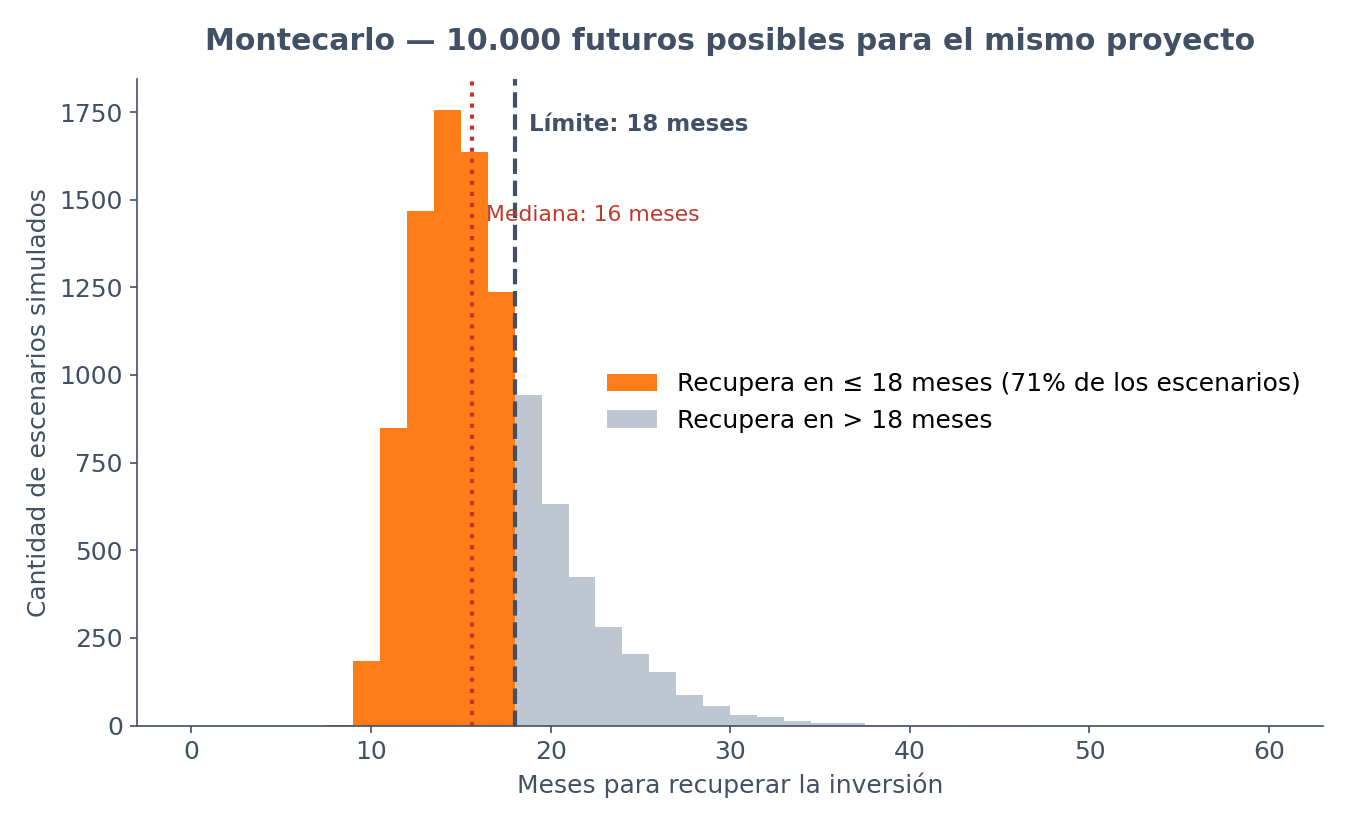
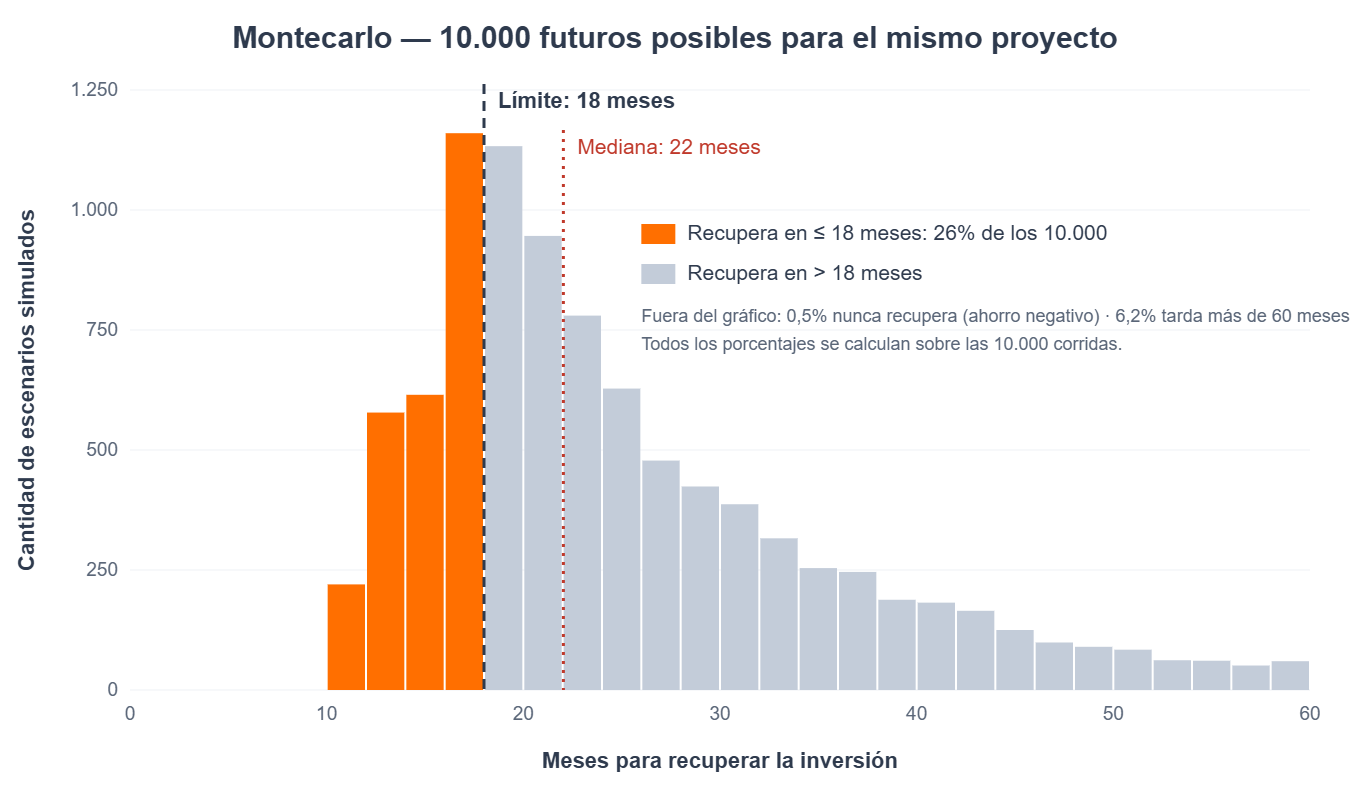
Montecarlo honesto, techo del IDA 165 y pestaña Benchmark
- runMC(): las probabilidades se calculan sobre las 10.000 corridas, no
  sobre el subconjunto con payback <=60 meses (inflaba el % de exito y
  daba NaN sin escenarios viables). Ahora reporta tres metricas: <=18
  meses, ahorro negativo y recupero >60 meses, con guard clause.
- Slider de riesgo del Montecarlo con paso 0,1: el paso entero anterior
  redondeaba el rango por defecto 1,3-1,7 a 1-2 y desincronizaba el
  resultado en vivo de lo documentado.
- Histograma: la barra que arranca en 18 meses ya no se pinta naranja.
- Techo teorico del IDA corregido de 177 a 165 (los agravantes actuales
  suman lambda max 1,65).
- Textos y g3_montecarlo.png actualizados: 26% / mediana 22 con el
  desglose de escenarios malos declarado.
- Nueva pestaña Benchmark: que herramientas existen, que pregunta no
  contesta cada una, y que le falta todavia a este modelo. Seccion 8
  espejo en el README.

diff --git a/index.html b/index.html
@@ -321,6 +321,7 @@ window.addEventListener('DOMContentLoaded',function(){
   <symbol id="i-mod-con" viewBox="0 0 24 24"><path d="M12 2.8 20 6v6.2c0 4.6-3.2 7.8-8 9.2-4.8-1.4-8-4.6-8-9.2V6z"/><polyline points="8.6 12 11 14.4 15.6 9.8"/></symbol>
   <symbol id="i-reset" viewBox="0 0 24 24"><path d="M3.5 12a8.5 8.5 0 1 0 2.6-6.1"/><polyline points="3 4 3 9.5 8.5 9.5"/></symbol>
   <symbol id="i-doc" viewBox="0 0 24 24"><path d="M14 3H7a2 2 0 0 0-2 2v14a2 2 0 0 0 2 2h10a2 2 0 0 0 2-2V8z"/><polyline points="14 3 14 8 19 8"/><line x1="8.5" y1="13" x2="15.5" y2="13"/><line x1="8.5" y1="16.5" x2="13" y2="16.5"/></symbol>
+  <symbol id="i-radar" viewBox="0 0 24 24"><circle cx="12" cy="12" r="8.5"/><circle cx="12" cy="12" r="4.5"/><circle cx="12" cy="12" r="1" fill="currentColor" stroke="none"/><path d="M12 3.5v2.6M12 17.9v2.6M3.5 12h2.6M17.9 12h2.6"/></symbol>
   <symbol id="i-bulb" viewBox="0 0 24 24"><path d="M9.5 18h5"/><path d="M10.5 21h3"/><path d="M12 3a6 6 0 00-3.6 10.8c.5.4.9 1 .9 1.7v.5h5.4v-.5c0-.7.4-1.3.9-1.7A6 6 0 0012 3z"/></symbol>
 </svg>
 
@@ -331,6 +332,7 @@ window.addEventListener('DOMContentLoaded',function(){
 
 <nav class="tabs">
   <button class="active" data-tab="calc"><svg><use href="#i-calc"/></svg> Calculadora</button>
+  <button data-tab="benchmark"><svg><use href="#i-radar"/></svg> Benchmark</button>
   <button data-tab="explica"><svg><use href="#i-book"/></svg> Cómo funciona</button>
   <button data-tab="formula"><svg><use href="#i-flask"/></svg> Fórmulas</button>
   <button data-tab="jugar"><svg><use href="#i-sliders"/></svg> Explorar gráficos</button>
@@ -535,6 +537,46 @@ window.addEventListener('DOMContentLoaded',function(){
 </section>
 </div>
 
+<!-- ========== BENCHMARK ========== -->
+<div class="panel" id="benchmark">
+<section>
+  <h2><svg><use href="#i-radar"/></svg> Qué existe afuera — y qué hueco llena esto</h2>
+  <p>Antes de confiar en una calculadora nueva, la pregunta correcta es: <b>¿por qué no existía?</b> Alrededor de la IA hay muchísimo software de retorno, de riesgo y de cumplimiento. Lo honesto es mostrar qué hace cada categoría, qué pregunta no contesta, y dónde queda el hueco que este modelo intenta llenar.</p>
+
+  <h3>Las cuatro categorías que ya existen</h3>
+  <div class="tabla-scroll">
+  <table>
+    <tr><th>Qué hay hoy</th><th>Qué resuelve bien</th><th>La pregunta que no contesta</th></tr>
+    <tr><td><b>Calculadoras de ROI de IA</b></td><td>Cuánto ahorrás automatizando: horas por costo, payback simple.</td><td>Asumen riesgo cero y continuidad gratis. Te dicen a cuánta gente podés <i>bajar</i>; nunca cuánta tenés que <i>conservar</i>.</td></tr>
+    <tr><td><b>Índices académicos de dependencia de IA</b></td><td>Miden cuánto depende de la IA una economía o un sector, a nivel macro.</td><td>No bajan al gerente: no te dicen cuántas personas necesita tu área el lunes si el proveedor no responde.</td></tr>
+    <tr><td><b>Normas de gestión (ISO/IEC 42001, ISO 22301)</b></td><td>Te exigen plan de contingencia y evaluación de riesgos: definen el <i>qué</i>.</td><td>Son marcos, no calculadoras: piden el plan pero no dan el número — ni la dotación mínima, ni el costo del riesgo, ni el tope de inversión.</td></tr>
+    <tr><td><b>Plataformas de riesgo y seguridad de IA</b></td><td>Protegen el software: prompts maliciosos, fuga de datos, sesgos, cumplimiento.</td><td>Cuidan a la IA de que la ataquen. No cuidan a tu operación de quedarse <i>sin</i> IA.</td></tr>
+  </table>
+  </div>
+  <p class="nota">Cada pieza existe por separado. Lo que no existía es la <b>unión</b>: personas + arquitectura técnica + riesgo de negocio en una sola cuenta que se pueda auditar.</p>
+
+  <h3>Qué pasa hoy porque esta cuenta no se hace</h3>
+  <p><b>Se despide con el Excel del ROI.</b> La dotación queda por debajo del piso de continuidad y nadie lo sabe, porque el piso nunca se calculó. Se descubre el día de la primera caída — como en el apagón global de CrowdStrike, cuando el "plan manual" de muchas empresas resultó no tener gente suficiente que supiera ejecutarlo.</p>
+  <p><b>El plan de contingencia se escribe sin número.</b> La norma exige "volver a operación manual", y el documento lo promete — con una dotación que ya no alcanza para operar manualmente. El papel cumple; la operación no.</p>
+  <p><b>El directorio no tiene métrica de exposición.</b> Se discute cuánto ahorra la IA — nunca cuán rehén queda la empresa del proveedor. Sin un número comparable entre áreas y entre empresas, la dependencia no entra en la agenda hasta que se corta.</p>
+  <p><b>La inversión se aprueba con el escenario promedio.</b> "Recuperás en 20 meses" suena a plan. Corrido 10.000 veces con rangos realistas, solo el 26% de los futuros recupera en menos de 18 — eso es una apuesta, y conviene saberlo antes de firmar.</p>
+
+  <h3>Qué hace distinto este modelo</h3>
+  <div class="tabla-scroll">
+  <table>
+    <tr><th>Diferencia</th><th>Por qué importa</th></tr>
+    <tr><td><b>Cuantifica la dotación mínima de continuidad (P')</b></td><td>Ningún software de RRHH ni de ROI te calcula el piso humano. Este modelo te dice "automatizá, pero tu piso de supervivencia son 4 personas; abajo de eso, el día que falle el proveedor no operás".</td></tr>
+    <tr><td><b>Traduce la fragilidad de arquitectura a plata (λ)</b></td><td>Una sola nube sin plan B deja de ser una observación técnica y pasa a ser un costo económico directo que castiga el ahorro y sube el IDA.</td></tr>
+    <tr><td><b>Es preventivo y probabilístico</b></td><td>Avisa <i>antes</i> de la caída, no después. Y el Montecarlo reporta los porcentajes sobre las 10.000 corridas completas — incluyendo los escenarios donde el proyecto no cierra, que serían fáciles de esconder.</td></tr>
+  </table>
+  </div>
+
+  <h3>Lo que este modelo todavía no tiene</h3>
+  <p>El benchmark honesto incluye los huecos propios. Los coeficientes de λ (+30% una sola nube, +20% sin plan de contingencia, +15% datos sensibles afuera) salen de criterio experto e incidentes públicos, no de un dataset calibrado por sector: son un punto de partida razonable, no una verdad revelada. Y el modelo todavía no publica casos reales con métricas de antes y después. Las dos cosas están en la hoja de ruta; mientras tanto, todas las fórmulas están a la vista y la cuenta corre entera en tu navegador — podés desafiarla con tus propios números.</p>
+  <p class="nota">Volvé a la <b>Calculadora</b> para correr tu caso, o seguí en <b>Cómo funciona</b> para ver la lógica desde cero.</p>
+</section>
+</div>
+
 <!-- ========== CÓMO FUNCIONA ========== -->
 <div class="panel" id="explica">
 <section>
@@ -690,7 +732,7 @@ window.addEventListener('DOMContentLoaded',function(){
   <p class="res-usa">Se alimenta de: <span class="t t-aut"><svg class="ic-mod"><use href="#i-mod-aut"/></svg> Automatización</span> <span class="t t-rie"><svg class="ic-mod"><use href="#i-mod-rie"/></svg> Riesgo</span> <span style="color:var(--gris)">— nunca dinero</span></p>
   <div class="formula-color">IDA &nbsp;=&nbsp; min<b>(</b> <span class="t t-aut">a_ef</span> · <span class="t t-rie">λ</span> · 100 &nbsp;,&nbsp; 100 <b>)</b></div>
   <p><span class="cuenta">IDA = 0,384 × 1,50 × 100 = 58</span> → zona amarilla, vigilancia.</p>
-  <p class="nota">El <span class="cuenta">min( , 100)</span> no es decorativo: con automatización alta y arquitectura muy frágil el producto se pasa de 100 (el techo teórico es 177, con a_ef=1 y todos los agravantes marcados). Cualquier valor por encima de 100 ya es "máxima dependencia posible", así que el índice se topea ahí para que la escala 0–100 signifique siempre lo mismo.</p>
+  <p class="nota">El <span class="cuenta">min( , 100)</span> no es decorativo: con automatización alta y arquitectura muy frágil el producto se pasa de 100 (el techo teórico es 165: a_ef=1 con λ máximo de 1,65 — una sola nube, sin plan de contingencia y datos sensibles afuera). Cualquier valor por encima de 100 ya es "máxima dependencia posible", así que el índice se topea ahí para que la escala 0–100 signifique siempre lo mismo.</p>
   <p><b>Por qué el IDA no incluye la plata.</b> Es la pregunta más común y es deliberado: <b>ahorrar y estar expuesto son cosas distintas</b>. Podés tener un proyecto que ahorra bien y recupera rápido —excelente negocio— y al mismo tiempo estar en zona amarilla de dependencia. Si metieras el dinero adentro del IDA, un ahorro grande te "taparía" el riesgo y el índice te diría que estás bien justo cuando más frágil estás. Por eso el IDA mide solo dos cosas: <b>cuánto delegaste</b> (a_ef) por <b>cuán frágil es lo que lo sostiene</b> (λ). El dinero ya tiene su propia fórmula, que es S.</p>
   <p class="nota">Comprobalo: dos empresas con la misma automatización del 38,4% pero distinta arquitectura → con una sola nube (λ=1,50) da IDA 58; con IA local (λ=1,02) da IDA 39. Mismo trabajo automatizado, mitad de exposición.</p>
 </section>
@@ -936,8 +978,8 @@ window.addEventListener('DOMContentLoaded',function(){
 <section>
   <h3 class="mod h-hum" style="font-size:1.15rem;">3 · Y una advertencia sobre los números lindos</h3>
   <p>Todo lo de arriba usa números fijos. La realidad no los tiene: el precio del token cambió 10 veces en dos años y tu eficiencia real no la vas a conocer hasta el tercer mes.</p>
-  <p>Cuando corrés este mismo proyecto <b>10.000 veces</b> con rangos en lugar de valores exactos (pestaña <b>Montecarlo</b>), el resultado deja de ser una promesa y pasa a ser una probabilidad: <b>solo el 31% de los escenarios recupera la inversión en menos de 18 meses</b>, con una mediana de 21 meses.</p>
-  <p>Ese 31% es incómodo, y por eso vale la pena mirarlo: dice que con esos rangos el proyecto es <b>más una apuesta que un plan</b>. Y otra vez, la palanca para moverlo no es automatizar más — es bajar λ o bajar la inversión inicial.</p>
+  <p>Cuando corrés este mismo proyecto <b>10.000 veces</b> con rangos en lugar de valores exactos (pestaña <b>Montecarlo</b>), el resultado deja de ser una promesa y pasa a ser una probabilidad: <b>solo el 26% de los escenarios recupera la inversión en menos de 18 meses</b>, con una mediana de 22 meses entre los que sí recuperan (y un 7% que directamente no recupera nunca o tarda más de 60 meses).</p>
+  <p>Ese 26% es incómodo, y por eso vale la pena mirarlo: dice que con esos rangos el proyecto es <b>más una apuesta que un plan</b>. Y otra vez, la palanca para moverlo no es automatizar más — es bajar λ o bajar la inversión inicial.</p>
 
 </section>
 
@@ -1943,7 +1985,7 @@ const mcDefs=[
   {id:'mcA',label:'% automatizable',min:0,max:100,lo:50,hi:70,fmt:v=>v+'%'},
   {id:'mcEta',label:'Eficiencia IA (η)',min:50,max:100,lo:65,hi:90,fmt:v=>v+'%'},
   {id:'mcCt',label:'Costo IA por hora automatizada (USD)',min:0.5,max:12,lo:1.5,hi:4,fmt:v=>'$'+v},
-  {id:'mcLam',label:'Riesgo λ',min:1,max:5,lo:1.3,hi:1.7,fmt:v=>v},
+  {id:'mcLam',label:'Riesgo λ',min:1,max:5,lo:1.3,hi:1.7,step:0.1,fmt:v=>v},
 ];
 const mcFijos={r:0.20, P:10, hp:160, Nom:16000, Pmin:4, M:500, I:50000};
 function renderMC(){
@@ -1951,8 +1993,8 @@ function renderMC(){
   mcDefs.forEach(d=>{
     const div=document.createElement('div'); div.className='campo';
     div.innerHTML=`<label>${d.label}: <span class="val" style="color:var(--naranja)"><span id="${d.id}_lo_v">${d.fmt(d.lo)}</span> – <span id="${d.id}_hi_v">${d.fmt(d.hi)}</span></span></label>
-      <div class="slider-row" style="font-size:.72rem;color:var(--gris)">min<input type="range" id="${d.id}_lo" min="${d.min}" max="${d.max}" value="${d.lo}" step="${d.min<1?0.5:1}" aria-label="${d.label}, mínimo">
-      max<input type="range" id="${d.id}_hi" min="${d.min}" max="${d.max}" value="${d.hi}" step="${d.min<1?0.5:1}" aria-label="${d.label}, máximo"></div>`;
+      <div class="slider-row" style="font-size:.72rem;color:var(--gris)">min<input type="range" id="${d.id}_lo" min="${d.min}" max="${d.max}" value="${d.lo}" step="${d.step||(d.min<1?0.5:1)}" aria-label="${d.label}, mínimo">
+      max<input type="range" id="${d.id}_hi" min="${d.min}" max="${d.max}" value="${d.hi}" step="${d.step||(d.min<1?0.5:1)}" aria-label="${d.label}, máximo"></div>`;
     cont.appendChild(div);
   });
   mcDefs.forEach(d=>{
@@ -1969,21 +2011,27 @@ function runMC(){
   const {r,P,hp,Nom,Pmin,M,I}=mcFijos;
   const H=P*hp, sueldo=Nom/P;
   const SIMS=10000, paybacks=[];
-  let neg=0;
+  let neg=0, tarde=0;
   for(let i=0;i<SIMS;i++){
     const aef=rnd(...A)*(1-r)*rnd(...E);
     const Pf=Math.max(Math.ceil(P*(1-aef)),Pmin);
     const S=(P-Pf)*sueldo - H*aef*rnd(...L)*rnd(...C) - M;
     if(S<=0){neg++; continue;}
     const pb=I/S;
-    if(pb<=60) paybacks.push(pb);
+    if(pb>60){tarde++; continue;}
+    paybacks.push(pb);
   }
   // histograma
   const bins=30, max=60, w=max/bins, counts=new Array(bins).fill(0);
   paybacks.forEach(p=>{const idx=Math.min(Math.floor(p/w),bins-1); counts[idx]++;});
   const labels=counts.map((_,i)=>((i*w)).toFixed(0));
-  const colors=counts.map((_,i)=> (i*w)<=18 ? NARANJA : GRIS);
-  const p18=(paybacks.filter(p=>p<=18).length/paybacks.length*100);
+  const colors=counts.map((_,i)=> (i*w)<18 ? NARANJA : GRIS);
+  // Las probabilidades se calculan sobre las 10.000 corridas, NUNCA sobre el
+  // subconjunto que entro al histograma: dividir por paybacks.length escondia
+  // los escenarios malos (ahorro negativo o recupero >60 meses), inflaba el %
+  // de exito y daba NaN cuando ningun escenario recuperaba.
+  const p18=paybacks.filter(p=>p<=18).length/SIMS*100;
+  const pNeg=neg/SIMS*100, pTarde=tarde/SIMS*100;
   const sorted=[...paybacks].sort((a,b)=>a-b);
   const mediana=sorted.length?sorted[Math.floor(sorted.length/2)]:0;
 
@@ -1994,7 +2042,9 @@ function runMC(){
       scales:{x:{title:{display:true,text:'Meses para recuperar la inversión',color:NAVY,font:{...chartFont,weight:'700'}},ticks:{color:NAVY,maxTicksLimit:13,font:chartFont}},
               y:{title:{display:true,text:'Cantidad de escenarios',color:NAVY,font:{...chartFont,weight:'700'}},ticks:{color:NAVY,font:chartFont}}}}
   });
-  $('mc-resumen').innerHTML=`Naranja = recupera en ≤18 meses. De 10.000 futuros simulados, <b>${p18.toFixed(0)}%</b> recupera la inversión en menos de 18 meses. Mediana: <b>${mediana.toFixed(0)} meses</b>. ${neg>0?`En ${(neg/100).toFixed(0)}% de los escenarios el ahorro fue negativo (no se recupera nunca).`:''} Movés los rangos y volvés a correr para ver cómo cambia tu probabilidad de éxito.`;
+  $('mc-resumen').innerHTML = paybacks.length===0
+    ? `De 10.000 futuros simulados, <b>ninguno</b> recupera la inversión dentro de 60 meses${neg>0?` — en el ${pNeg.toFixed(0)}% el ahorro fue directamente negativo`:''}. Con estos rangos el proyecto no cierra: bajá λ, el costo por hora o la inversión inicial, y volvé a correr.`
+    : `Naranja = recupera en ≤18 meses. De 10.000 futuros simulados: <b>${p18.toFixed(0)}%</b> recupera la inversión en menos de 18 meses · <b>${pNeg.toFixed(0)}%</b> nunca la recupera (ahorro negativo) · <b>${pTarde.toFixed(0)}%</b> recupera pero tarda más de 60 meses. Mediana de los que recuperan dentro de 60 meses: <b>${mediana.toFixed(0)} meses</b>. Los tres porcentajes se calculan sobre las 10.000 corridas. Movés los rangos y volvés a correr para ver cómo cambia tu probabilidad de éxito.`;
 }
 $('run-mc').addEventListener('click',runMC);
 // montecarlo se inicializa al abrir su pestaña (lazy init arriba)

diff --git a/README.md b/README.md
@@ -6,9 +6,6 @@
 
 ---
 
-
----
-
 ## 1. El problema
 
 Hoy un call center se puede automatizar al 100% con IA. Técnicamente no queda ninguna tarea que un agente no pueda hacer —leer un email, responder por voz, por WhatsApp, contestar mensajes en redes sociales—: atender, resolver, escalar, registrar. La pregunta ya no es "¿se puede?".
@@ -44,6 +41,8 @@ Los datos que cargás en la calculadora pasan por **cuatro módulos**, y de ahí
 Esta es una foto fija. **En el sitio es un diagrama interactivo**: hacés clic en un módulo y ves hacia dónde va, o en una respuesta y ves de qué se alimenta — [probalo acá](https://modelo-ida.web.app/diagrama).
 
 En texto, el mismo recorrido — los cuatro módulos no son fórmulas sueltas, cada uno produce **un número intermedio**, y esos cuatro números alimentan **tres resultados**. El modelo es un embudo, no una ecuación única:
+
+Ojo con un atajo mental frecuente: no se salta directo del % de automatización al ahorro en dólares. En el medio pasa por P' — el modelo primero decide **cuánta gente te queda de verdad**, y recién con ese número calcula la plata. Por eso hay una flecha extra en el diagrama:
 
 ```
 Lo que cargás          Los cuatro módulos            Los tres resultados
@@ -87,13 +86,9 @@ Ejemplo: 0,60 × (1 − 0,20) × 0,80 = **38,4%**, no 60%. Primer baño de reali
 Costo real de la IA = λ × Gasto mensual de IA
 ```
 
-**Qué significa ese multiplicador.** Si tu proveedor te factura $1.229 por mes, eso es lo que sale de tu cuenta bancaria: ese número no cambia. Lo que el modelo hace es **cobrarte un extra al momento de decidir** — con λ=1,50 anota $1.844 en la evaluación del proyecto.
+Seguí con la misma pyme del ejemplo: automatizaste el 38,4% de la carga y elegiste un proveedor de IA en la nube —una sola nube, sin backup en otro proveedor— que te factura $1.229 por mes. Todavía no armaste un plan de contingencia para el día que se caiga.
 
-¿Por qué? Porque además de la factura estás corriendo un riesgo que hoy no pagás pero que algún día se cobra solo: el día que la nube única se cae sin plan B perdés operación, ventas y credibilidad de golpe. Ese costo no aparece en ninguna factura mensual — aparece entero, una sola vez, el peor día. El multiplicador lo reparte en cuotas para que una arquitectura frágil se vea cara *cuando todavía estás a tiempo de cambiarla*.
-
-Es la lógica del seguro del auto: manejar sin seguro no sale más barato, sale igual hasta que chocás.
-
-**Dónde corre la IA** — elegís *una sola* de estas tres, son excluyentes:
+Esas dos decisiones tienen precio, aunque no aparezcan en la factura. **Dónde corre la IA** — elegís *una sola* de estas tres, son excluyentes:
 
 | Arquitectura | Recargo a λ |
 |---|---|
@@ -108,13 +103,26 @@ Es la lógica del seguro del auto: manejar sin seguro no sale más barato, sale 
 | Sin plan de contingencia | +20% |
 | Datos sensibles en nube externa | +15% |
 
-**El trade-off central:** la IA local desploma λ pero infla I. La nube achica I pero infla λ. No hay opción gratis — la fórmula te dice cuál precio te conviene pagar según tu volumen H.
+Tu caso: nube única (+30%) y sin plan de contingencia (+20%) → λ = 1 + 0,30 + 0,20 = **1,50**.
+
+El costo real de tu proyecto, para decidir si conviene, no es $1.229: es 1,50 × $1.229 = **$1.844 por mes**. La factura no cambia —seguís pagando $1.229—, pero el modelo te cobra $615 extra en la evaluación: es la prima de seguro por la arquitectura frágil que elegiste. Ese costo no aparece en ninguna factura mensual — aparece entero, una sola vez, el peor día. El multiplicador lo reparte en cuotas para que una arquitectura frágil se vea cara *cuando todavía estás a tiempo de cambiarla*.
+
+Es la lógica del seguro del auto: manejar sin seguro no sale más barato, sale igual hasta que chocás.
+
+No hay arquitectura gratis, hay que elegir qué precio pagar. Si corrieras esa misma IA en tus propios servidores, λ bajaría mucho —menos riesgo— pero tendrías que poner la inversión inicial de armar y mantener esos servidores. Si te quedás en la nube de un solo proveedor, la inversión inicial es baja —pagás por mes, nada más— pero el riesgo es mayor porque quedás atado a ese proveedor. ¿Cuál conviene? Depende de cuánto volumen proceses: con poco volumen la nube sale más barata aunque sea más riesgosa; con mucho volumen, tu propia infraestructura empieza a compensar el riesgo que evitás. Ese es exactamente el trade-off que ves en números reales en la sección 5 (Casos extremos) y en la 7.2.
 
 ### Módulo Continuidad
 ```
 Piso de continuidad (P_min) = Horas mínimas para operar sin IA ÷ Horas por persona
 ```
-Las horas mínimas son las de la operación crítica en modo degradado. La IA local baja P_min; la nube única lo sube.
+
+Ahora la pregunta incómoda: si mañana la IA se cae, ¿con cuánta gente seguís? No es cero, aunque hoy automatices el 38,4%.
+
+Pensalo en modo degradado y calculá a ojo, no hace falta un estudio: *"¿cuántas horas por mes tengo que cubrir sí o sí, aunque no tenga IA?"*. *"Si se cae todo tengo que atender 800 llamados al mes, y una persona atiende 2 por hora"* → 400 horas. *"Y alguien tiene que revisar pedidos 8 horas por día"* → 240 horas más. Total ≈ 640 h/mes: ese es tu `H_min`.
+
+Piso de continuidad = 640 horas ÷ 160 horas por persona = **4 personas**
+
+Esas 4 personas son tu P_min: no importa que automatices el 100%, nunca vas a bajar de 4 en este equipo. Son las horas de la operación crítica en modo degradado —si esa IA corriera en tus propios servidores te recuperarías más rápido y este piso bajaría; si dependés de una sola nube externa, recuperarte tarda más y el piso sube.
 
 > **Ojo: esto NO es lo mismo que la firma del médico o del escribano.** Son dos preguntas distintas y es donde más se confunde la gente.
 >
@@ -122,7 +130,7 @@ Las horas mínimas son las de la operación crítica en modo degradado. La IA lo
 >
 > `P_min`, acá, pregunta otra cosa: *si mañana la IA no está, ¿con cuánta gente sostengo lo que no puede parar?* No importa la firma: importa la **capacidad operativa**.
 >
-> **Cómo estimarlo.** No hace falta un estudio: pensalo en modo degradado y calculá a ojo. *"Si se cae todo tengo que atender 400 llamados al mes, y una persona atiende 2 por hora"* → 200 horas. *"Y alguien tiene que revisar pedidos 4 horas por día"* → 88 horas más. Total ≈ 290 h/mes: ese es tu `H_min`. Puede pasar que las dos cosas coincidan —el médico que firma es también el que sostiene la guardia— pero son cuentas separadas.
+> Puede pasar que las dos cosas coincidan —el médico que firma es también el que sostiene la guardia— pero son cuentas separadas.
 
 
 ---
@@ -136,10 +144,10 @@ P' = MÁXIMO entre:
    (b) Piso de continuidad P_min                                ← la cuenta de supervivencia
 ```
 
-Hace **dos cuentas distintas y se queda con la más grande**:
+Con esos dos números en la mano —38,4% de automatización efectiva y un piso de 4 personas—, el modelo hace **dos cuentas distintas y se queda con la más grande**:
 
 1. **Cuenta económica:** si automatizás el 38,4%, te sobra ese 38,4% de la gente → `10 × (1 − 0,384) = 6,16 → 7 personas` (redondeo hacia arriba: no existe 6,16 empleados).
-2. **Cuenta de supervivencia:** el `P_min` del módulo Continuidad → `640 ÷ 160 = 4 personas`. No sale de automatizar: sale de preguntarte cuánta gente necesitás el día que la IA no está.
+2. **Cuenta de supervivencia:** el `P_min` que acabás de calcular en el módulo Continuidad → 4 personas.
 3. **`MÁXIMO(7 , 4) = 7`.**
 
 **¿Por qué la más grande?** Porque las dos son condiciones que tenés que cumplir *al mismo tiempo*: al menos 7 para el trabajo diario, al menos 4 para sobrevivir sin IA. Solo el mayor cumple las dos.
@@ -152,7 +160,7 @@ S = (P − P') × sueldo − λ × Gasto mensual de IA − Mantenimiento
 T = Inversión ÷ S
 ```
 
-Fijate que S **arranca con P'**, el resultado anterior: solo ahorrás el sueldo de la gente que efectivamente podés liberar.
+Ya sabés que de tu equipo de 10 te quedan 7. Ahora la pregunta es cuánto ahorrás con eso — y acá importa el atajo que marcamos antes: fijate que S **arranca con P'**, el resultado anterior: solo ahorrás el sueldo de la gente que efectivamente podés liberar.
 
 1. **Cuánta gente liberás de verdad:** `P − P' = 10 − 7 = 3 personas`. No son 3,84 (el 38,4% de 10): no se despiden fracciones de persona, y si el piso se activa liberás todavía menos.
 2. **Ahorro en sueldos:** cada persona cuesta `N ÷ P = $1.600/mes` → `3 × $1.600 = $4.800`.
@@ -184,9 +192,11 @@ Fijate que S **arranca con P'**, el resultado anterior: solo ahorrás el sueldo 
 ```
 IDA = MÍNIMO( Automatización efectiva × λ × 100 , 100 )
 ```
+Con el ahorro ya resuelto —$2.457 por mes, se paga en 20 meses— falta la otra pregunta: ¿qué tan expuesto quedaste?
+
 `0,384 × 1,50 × 100 = 58` → zona amarilla.
 
-El `MÍNIMO` no es decorativo: con automatización alta y arquitectura frágil el producto se pasa de 100 (el techo teórico es 177). Todo lo que supere 100 ya es "máxima dependencia posible", así que el índice se topea para que la escala 0–100 signifique siempre lo mismo.
+El `MÍNIMO` no es decorativo: con automatización alta y arquitectura frágil el producto se pasa de 100 (el techo teórico es 165: a_ef=1 con λ máximo de 1,65 — una sola nube, sin plan de contingencia y datos sensibles afuera). Todo lo que supere 100 ya es "máxima dependencia posible", así que el índice se topea para que la escala 0–100 signifique siempre lo mismo.
 
 | IDA | Zona | Qué significa |
 |---|---|---|
@@ -369,13 +379,15 @@ El mismo hardware que era un disparate para los emails es la **mejor decisión p
 
 ## 6. Para los más avanzados: Montecarlo
 
-Todo lo de arriba usa números fijos. La realidad no: el token cambió 10× en dos años y tu eficiencia real no la conocés hasta el tercer mes. La **simulación de Montecarlo** corre la misma fórmula 10.000 veces con rangos en vez de números fijos.
+Todo lo de arriba usa números fijos: exactamente $1.229 por mes de IA, exactamente 640 horas de piso, exactamente 38,4% de automatización. Pero en la vida real esos números se mueven de mes a mes: el token cambió 10× en dos años y tu eficiencia real no la conocés hasta el tercer mes.
+
+Montecarlo es, en el fondo, una idea simple: en vez de correr la cuenta una sola vez con el número "promedio", la **simulación de Montecarlo** la corre **10.000 veces**, moviendo un poco cada variable dentro de un rango razonable cada vez —como si probaras 10.000 futuros posibles para tu proyecto— y te quedás con el promedio de esos 10.000 resultados.
 
 ![Montecarlo](assets/g3_montecarlo.png)
 
-El resultado deja de ser *"recuperás en 20 meses"* y pasa a ser *"31% de probabilidad de recuperar en menos de 18 meses; mediana 21"*. Montecarlo no reemplaza la fórmula: la alimenta.
+El resultado deja de ser *"recuperás en 20 meses"* y pasa a ser *"26% de probabilidad de recuperar en menos de 18 meses; mediana 22 entre los que sí recuperan"*. Los porcentajes se calculan sobre las 10.000 corridas completas — incluyendo el ~7% de escenarios donde el ahorro es negativo o el recupero pasa de 60 meses, que serían fáciles de barrer bajo la alfombra. Montecarlo no reemplaza la fórmula: la alimenta.
 
-Ese 31% es incómodo y por eso vale la pena: dice que con estos rangos el proyecto es más una apuesta que un plan. La palanca para moverlo casi nunca es automatizar más — es bajar λ o bajar la inversión inicial.
+Ese 26% es incómodo y por eso vale la pena: dice que con estos rangos el proyecto es más una apuesta que un plan. La palanca para moverlo casi nunca es automatizar más — es bajar λ o bajar la inversión inicial.
 
 ---
 
@@ -464,7 +476,28 @@ Si la demanda no es pareja, calculá H_min franja por franja: `(puestos en pico 
 
 ---
 
-## 8. Los límites del modelo
+## 8. Qué existe afuera — y qué hueco llena esto (benchmark)
+
+Antes de confiar en una calculadora nueva, la pregunta correcta es: **¿por qué no existía?** Alrededor de la IA hay muchísimo software de retorno, de riesgo y de cumplimiento. Lo honesto es mostrar qué hace cada categoría, qué pregunta no contesta, y dónde queda el hueco que este modelo intenta llenar.
+
+| Qué hay hoy | Qué resuelve bien | La pregunta que no contesta |
+|---|---|---|
+| **Calculadoras de ROI de IA** | Cuánto ahorrás automatizando: horas por costo, payback simple. | Asumen riesgo cero y continuidad gratis. Te dicen a cuánta gente podés *bajar*; nunca cuánta tenés que *conservar*. |
+| **Índices académicos de dependencia de IA** | Miden cuánto depende de la IA una economía o un sector, a nivel macro. | No bajan al gerente: no te dicen cuántas personas necesita tu área el lunes si el proveedor no responde. |
+| **Normas de gestión (ISO/IEC 42001, ISO 22301)** | Te exigen plan de contingencia y evaluación de riesgos: definen el *qué*. | Son marcos, no calculadoras: piden el plan pero no dan el número — ni la dotación mínima, ni el costo del riesgo, ni el tope de inversión. |
+| **Plataformas de riesgo y seguridad de IA** | Protegen el software: prompts maliciosos, fuga de datos, sesgos, cumplimiento. | Cuidan a la IA de que la ataquen. No cuidan a tu operación de quedarse *sin* IA. |
+
+Cada pieza existe por separado. Lo que no existía es la **unión**: personas + arquitectura técnica + riesgo de negocio en una sola cuenta que se pueda auditar.
+
+**Qué pasa hoy porque esta cuenta no se hace.** Se despide con el Excel del ROI y el piso de continuidad se descubre el día de la primera caída — como en el apagón global de CrowdStrike, cuando el "plan manual" de muchas empresas resultó no tener gente suficiente que supiera ejecutarlo. El plan de contingencia que exige la norma se escribe sin número: promete "volver a operación manual" con una dotación que ya no alcanza para operar manualmente. El directorio discute cuánto ahorra la IA, nunca cuán rehén queda del proveedor. Y la inversión se aprueba con el escenario promedio: "recuperás en 20 meses" suena a plan, hasta que lo corrés 10.000 veces y solo el 26% de los futuros recupera en menos de 18.
+
+**Qué hace distinto este modelo.** Tres cosas: cuantifica la dotación mínima de continuidad (P') que ningún software de RRHH ni de ROI calcula; traduce la fragilidad de arquitectura a plata (λ), convirtiendo "una sola nube sin plan B" en un costo económico directo; y es preventivo y probabilístico — avisa antes de la caída, con porcentajes calculados sobre las 10.000 corridas completas, incluyendo los escenarios donde el proyecto no cierra.
+
+**Lo que este modelo todavía no tiene.** Los coeficientes de λ salen de criterio experto e incidentes públicos, no de un dataset calibrado por sector: son un punto de partida razonable, no una verdad revelada. Y todavía no publica casos reales con métricas de antes y después. Las dos cosas están en la hoja de ruta; mientras tanto, todas las fórmulas están a la vista y podés desafiarlas con tus propios números.
+
+---
+
+## 9. Los límites del modelo
 
 Ningún modelo es honesto si no dice qué *no* hace.
 
@@ -480,7 +513,7 @@ Ningún modelo es honesto si no dice qué *no* hace.
 
 ---
 
-## 9. Cierre: la conjetura
+## 10. Cierre: la conjetura
 
 Los bancos no eligen cuánto capital de reserva tienen: **Basilea** se los exige. Mi conjetura es que vamos hacia lo mismo con la IA: las empresas de servicios críticos van a tener que demostrar una **reserva mínima de capacidad humana** —un P_min auditado y un IDA declarado— igual que hoy declaran capital. En Europa, **DORA** ya obliga al sector financiero a gestionar el riesgo de dependencia de proveedores tecnológicos; extenderlo de "sistemas" a "personas" y de finanzas a toda industria crítica es el paso natural.
 
